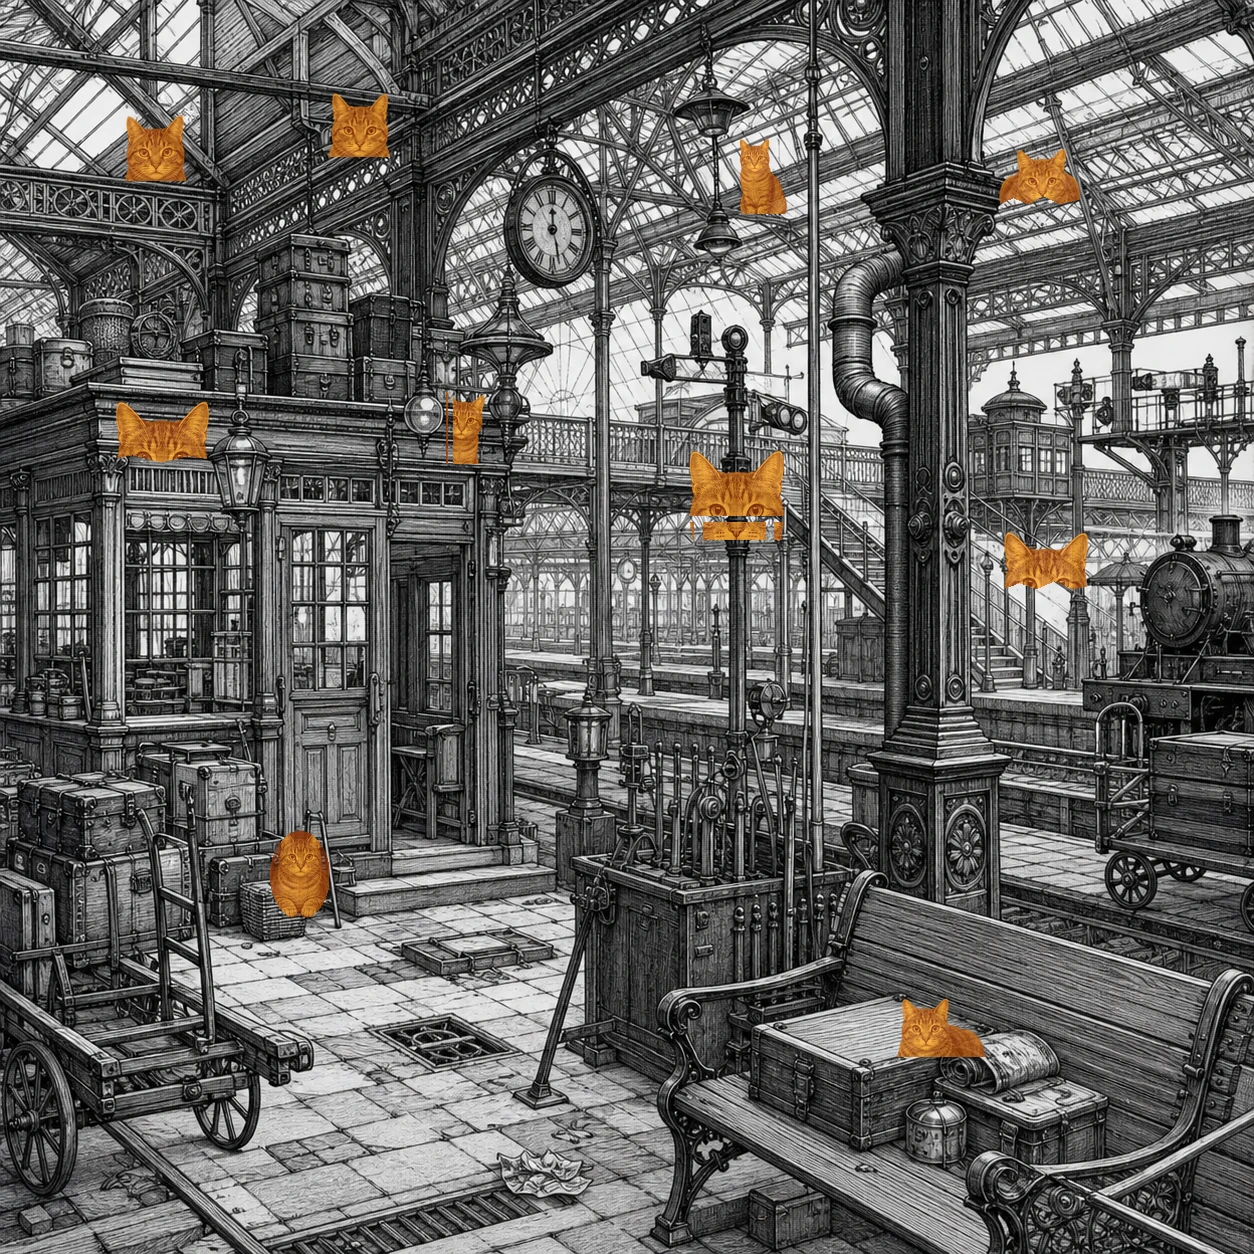
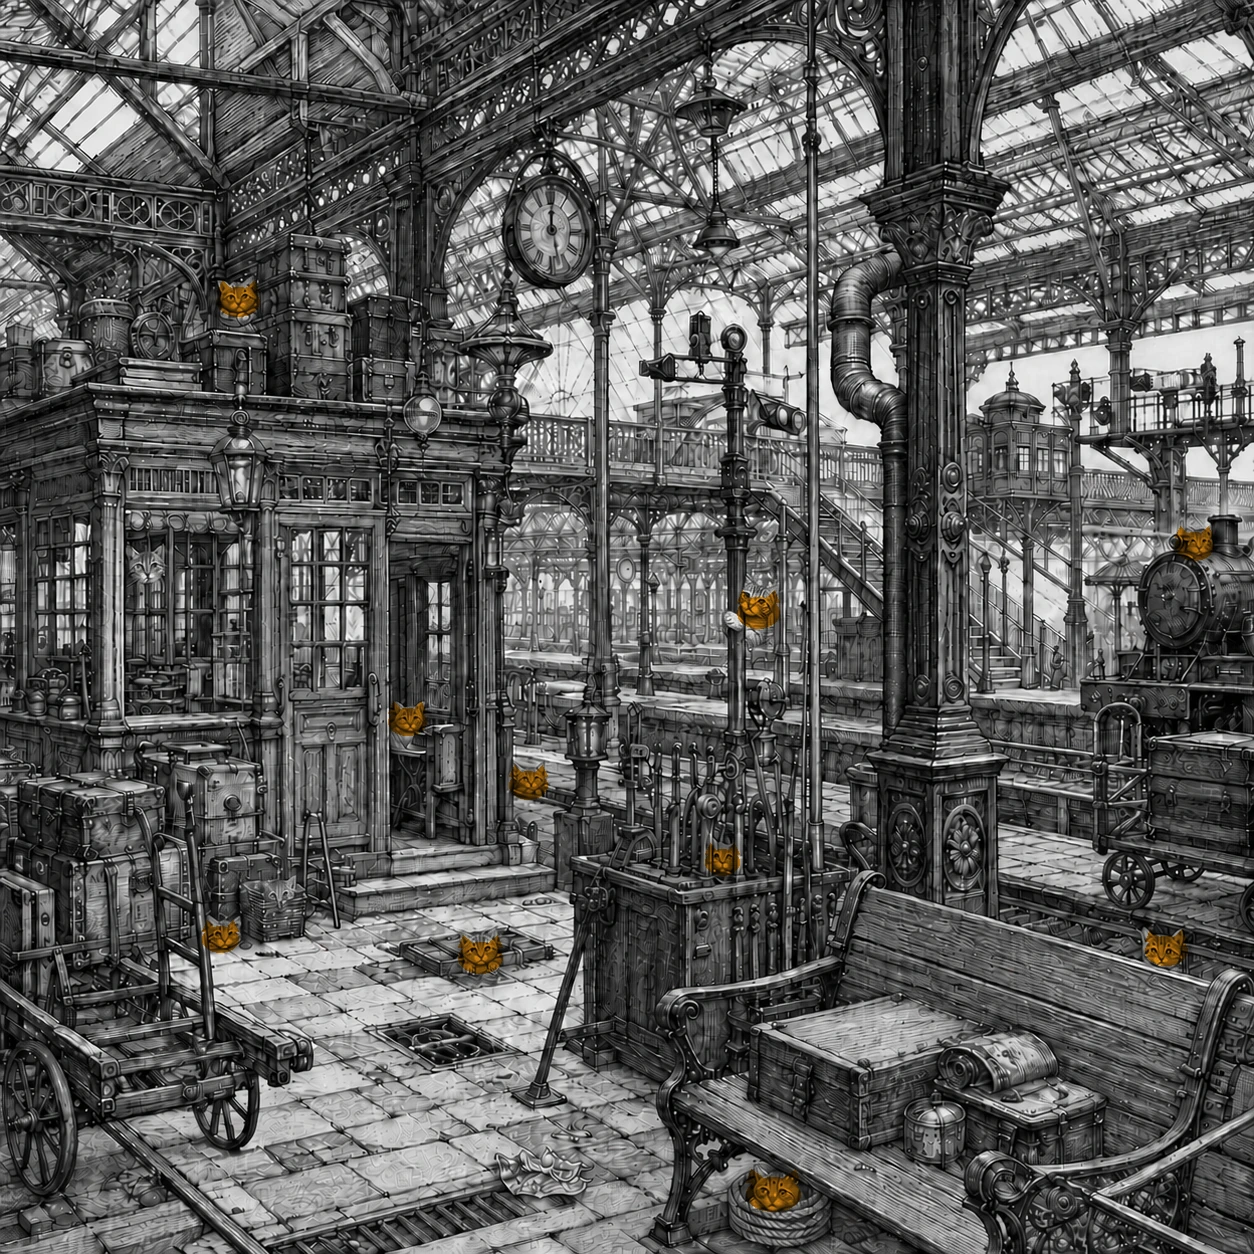
Rebuild review levels 56 to 58

diff --git a/app.js b/app.js
@@ -109,9 +109,9 @@ const levelCatalog = [
     {x:.393,y:.055,hitX:.025,hitY:.028,clipX:.020,clipY:.025},{x:.117,y:.106,hitX:.025,hitY:.025,clipX:.022,clipY:.020},{x:.672,y:.142,hitX:.025,hitY:.025,clipX:.020,clipY:.018},{x:.915,y:.281,hitX:.025,hitY:.025,clipX:.022,clipY:.018},{x:.189,y:.348,hitX:.025,hitY:.028,clipX:.018,clipY:.025},{x:.500,y:.483,hitX:.025,hitY:.025,clipX:.020,clipY:.018},{x:.879,y:.540,hitX:.025,hitY:.025,clipX:.022,clipY:.018},{x:.132,y:.589,hitX:.025,hitY:.025,clipX:.022,clipY:.018},{x:.508,y:.723,hitX:.025,hitY:.025,clipX:.022,clipY:.020},{x:.895,y:.882,hitX:.028,hitY:.030,clipX:.025,clipY:.028}] }
   ,{ file: "ink-10", name: "Mountain Weather Station", cats: [
     {x:.313,y:.101,hitX:.030,hitY:.025,clipX:.028,clipY:.018},{x:.111,y:.114,hitX:.025,hitY:.025,clipX:.020,clipY:.022},{x:.597,y:.215,hitX:.025,hitY:.025,clipX:.018,clipY:.018},{x:.873,y:.276,hitX:.025,hitY:.025,clipX:.020,clipY:.018},{x:.133,y:.449,hitX:.028,hitY:.025,clipX:.025,clipY:.018},{x:.901,y:.488,hitX:.025,hitY:.025,clipX:.022,clipY:.018},{x:.435,y:.532,hitX:.025,hitY:.025,clipX:.018,clipY:.018},{x:.087,y:.728,hitX:.025,hitY:.028,clipX:.022,clipY:.025},{x:.496,y:.759,hitX:.025,hitY:.025,clipX:.020,clipY:.018},{x:.854,y:.903,hitX:.025,hitY:.028,clipX:.022,clipY:.025}] }
-,{ file: "next-01", name: "Grand Railway Terminal", cats: [{"x":0.124,"y":0.118,"hitX":0.0387,"hitY":0.0383,"clipX":0.0337,"clipY":0.0333},{"x":0.2855,"y":0.0997,"hitX":0.0399,"hitY":0.0375,"clipX":0.0349,"clipY":0.0325},{"x":0.6077,"y":0.1407,"hitX":0.035,"hitY":0.0419,"clipX":0.03,"clipY":0.0369},{"x":0.8293,"y":0.1407,"hitX":0.0447,"hitY":0.035,"clipX":0.0397,"clipY":0.03},{"x":0.1296,"y":0.3441,"hitX":0.0515,"hitY":0.0363,"clipX":0.0465,"clipY":0.0313},{"x":0.3712,"y":0.3385,"hitX":0.035,"hitY":0.0435,"clipX":0.03,"clipY":0.0385},{"x":0.5877,"y":0.3947,"hitX":0.0519,"hitY":0.0479,"clipX":0.0469,"clipY":0.0429},{"x":0.8349,"y":0.4466,"hitX":0.0471,"hitY":0.0351,"clipX":0.0421,"clipY":0.0301},{"x":0.2388,"y":0.6978,"hitX":0.0355,"hitY":0.0471,"clipX":0.0305,"clipY":0.0421},{"x":0.75,"y":0.8194,"hitX":0.0483,"hitY":0.0355,"clipX":0.0433,"clipY":0.0305}] }
-  ,{ file: "next-02", name: "Rooftop Market Maze", cats: [{"x":0.1272,"y":0.114,"hitX":0.0387,"hitY":0.0383,"clipX":0.0337,"clipY":0.0333},{"x":0.3971,"y":0.0797,"hitX":0.0399,"hitY":0.0375,"clipX":0.0349,"clipY":0.0325},{"x":0.6635,"y":0.1248,"hitX":0.035,"hitY":0.0419,"clipX":0.03,"clipY":0.0369},{"x":0.8772,"y":0.1089,"hitX":0.0447,"hitY":0.035,"clipX":0.0397,"clipY":0.03},{"x":0.1415,"y":0.3242,"hitX":0.0515,"hitY":0.0363,"clipX":0.0465,"clipY":0.0313},{"x":0.4063,"y":0.3106,"hitX":0.035,"hitY":0.0435,"clipX":0.03,"clipY":0.0385},{"x":0.7193,"y":0.3469,"hitX":0.0519,"hitY":0.0479,"clipX":0.0469,"clipY":0.0429},{"x":0.8668,"y":0.4785,"hitX":0.0471,"hitY":0.0351,"clipX":0.0421,"clipY":0.0301},{"x":0.2628,"y":0.6978,"hitX":0.0355,"hitY":0.0471,"clipX":0.0305,"clipY":0.0421},{"x":0.7181,"y":0.7755,"hitX":0.0483,"hitY":0.0355,"clipX":0.0433,"clipY":0.0305}] }
-  ,{ file: "next-03", name: "Clockwork Foundry", cats: [{"x":0.116,"y":0.11,"hitX":0.0387,"hitY":0.0383,"clipX":0.0337,"clipY":0.0333},{"x":0.3732,"y":0.1196,"hitX":0.0399,"hitY":0.0375,"clipX":0.0349,"clipY":0.0325},{"x":0.6316,"y":0.1288,"hitX":0.035,"hitY":0.0419,"clipX":0.03,"clipY":0.0369},{"x":0.8612,"y":0.1687,"hitX":0.0447,"hitY":0.035,"clipX":0.0397,"clipY":0.03},{"x":0.1495,"y":0.3321,"hitX":0.0515,"hitY":0.0363,"clipX":0.0465,"clipY":0.0313},{"x":0.3824,"y":0.3465,"hitX":0.035,"hitY":0.0435,"clipX":0.03,"clipY":0.0385},{"x":0.6316,"y":0.3549,"hitX":0.0519,"hitY":0.0479,"clipX":0.0469,"clipY":0.0429},{"x":0.8349,"y":0.4745,"hitX":0.0471,"hitY":0.0351,"clipX":0.0421,"clipY":0.0301},{"x":0.2388,"y":0.6898,"hitX":0.0355,"hitY":0.0471,"clipX":0.0305,"clipY":0.0421},{"x":0.6782,"y":0.7795,"hitX":0.0483,"hitY":0.0355,"clipX":0.0433,"clipY":0.0305}] }
+,{ file: "next-01", name: "Grand Railway Terminal", cats: [{"x":0.1898,"y":0.2376,"hitX":0.04,"hitY":0.04,"clipX":0.034,"clipY":0.031},{"x":0.3246,"y":0.5726,"hitX":0.04,"hitY":0.04,"clipX":0.031,"clipY":0.029},{"x":0.4211,"y":0.6236,"hitX":0.04,"hitY":0.04,"clipX":0.031,"clipY":0.029},{"x":0.5758,"y":0.685,"hitX":0.04,"hitY":0.04,"clipX":0.03,"clipY":0.028},{"x":0.1754,"y":0.7464,"hitX":0.04,"hitY":0.04,"clipX":0.03,"clipY":0.028},{"x":0.3828,"y":0.7608,"hitX":0.04,"hitY":0.04,"clipX":0.035,"clipY":0.031},{"x":0.9522,"y":0.433,"hitX":0.04,"hitY":0.04,"clipX":0.031,"clipY":0.028},{"x":0.9298,"y":0.7552,"hitX":0.04,"hitY":0.04,"clipX":0.034,"clipY":0.03},{"x":0.6164,"y":0.949,"hitX":0.045,"hitY":0.04,"clipX":0.043,"clipY":0.034},{"x":0.6045,"y":0.4856,"hitX":0.04,"hitY":0.04,"clipX":0.034,"clipY":0.031}] }
+  ,{ file: "next-02", name: "Rooftop Market Maze", cats: [{"x":0.1802,"y":0.1053,"hitX":0.04,"hitY":0.04,"clipX":0.034,"clipY":0.03},{"x":0.7727,"y":0.1563,"hitX":0.04,"hitY":0.04,"clipX":0.031,"clipY":0.028},{"x":0.189,"y":0.3182,"hitX":0.04,"hitY":0.04,"clipX":0.031,"clipY":0.028},{"x":0.945,"y":0.3134,"hitX":0.04,"hitY":0.04,"clipX":0.032,"clipY":0.028},{"x":0.7488,"y":0.453,"hitX":0.04,"hitY":0.04,"clipX":0.031,"clipY":0.028},{"x":0.4976,"y":0.5191,"hitX":0.04,"hitY":0.04,"clipX":0.03,"clipY":0.028},{"x":0.5486,"y":0.5941,"hitX":0.04,"hitY":0.04,"clipX":0.029,"clipY":0.027},{"x":0.2911,"y":0.6443,"hitX":0.04,"hitY":0.04,"clipX":0.035,"clipY":0.031},{"x":0.1794,"y":0.8652,"hitX":0.04,"hitY":0.04,"clipX":0.034,"clipY":0.03},{"x":0.8923,"y":0.7568,"hitX":0.04,"hitY":0.04,"clipX":0.028,"clipY":0.027}] }
+  ,{ file: "next-03", name: "Clockwork Foundry", cats: [{"x":0.1906,"y":0.1978,"hitX":0.04,"hitY":0.04,"clipX":0.035,"clipY":0.031},{"x":0.7329,"y":0.0431,"hitX":0.04,"hitY":0.04,"clipX":0.037,"clipY":0.032},{"x":0.8676,"y":0.2424,"hitX":0.04,"hitY":0.04,"clipX":0.031,"clipY":0.028},{"x":0.5463,"y":0.3349,"hitX":0.04,"hitY":0.04,"clipX":0.031,"clipY":0.028},{"x":0.2289,"y":0.6547,"hitX":0.04,"hitY":0.04,"clipX":0.037,"clipY":0.032},{"x":0.5167,"y":0.7009,"hitX":0.04,"hitY":0.04,"clipX":0.032,"clipY":0.029},{"x":0.8509,"y":0.6571,"hitX":0.04,"hitY":0.04,"clipX":0.038,"clipY":0.034},{"x":0.2329,"y":0.8732,"hitX":0.04,"hitY":0.04,"clipX":0.038,"clipY":0.034},{"x":0.8565,"y":0.8812,"hitX":0.04,"hitY":0.04,"clipX":0.031,"clipY":0.028},{"x":0.4912,"y":0.9203,"hitX":0.04,"hitY":0.04,"clipX":0.037,"clipY":0.032}] }
   ,{ file: "next-04", name: "Orbital Assembly Hangar", cats: [{"x":0.0873,"y":0.11,"hitX":0.0387,"hitY":0.0383,"clipX":0.0337,"clipY":0.0333},{"x":0.3094,"y":0.0957,"hitX":0.0399,"hitY":0.0375,"clipX":0.0349,"clipY":0.0325},{"x":0.6077,"y":0.1128,"hitX":0.035,"hitY":0.0419,"clipX":0.03,"clipY":0.0369},{"x":0.8692,"y":0.1328,"hitX":0.0447,"hitY":0.035,"clipX":0.0397,"clipY":0.03},{"x":0.1176,"y":0.3122,"hitX":0.0515,"hitY":0.0363,"clipX":0.0465,"clipY":0.0313},{"x":0.3585,"y":0.3226,"hitX":0.035,"hitY":0.0435,"clipX":0.03,"clipY":0.0385},{"x":0.6515,"y":0.3509,"hitX":0.0519,"hitY":0.0479,"clipX":0.0469,"clipY":0.0429},{"x":0.8589,"y":0.4426,"hitX":0.0471,"hitY":0.0351,"clipX":0.0421,"clipY":0.0301},{"x":0.2436,"y":0.6938,"hitX":0.0355,"hitY":0.0471,"clipX":0.0305,"clipY":0.0421},{"x":0.7101,"y":0.7675,"hitX":0.0483,"hitY":0.0355,"clipX":0.0433,"clipY":0.0305}] }
   ,{ file: "next-05", name: "Toy Conveyor Factory", cats: [{"x":0.0542,"y":0.0407,"hitX":0.045,"hitY":0.045,"clipX":0.04,"clipY":0.04},{"x":0.2831,"y":0.1794,"hitX":0.045,"hitY":0.045,"clipX":0.04,"clipY":0.04},{"x":0.3254,"y":0.3301,"hitX":0.045,"hitY":0.045,"clipX":0.04,"clipY":0.04},{"x":0.925,"y":0.323,"hitX":0.045,"hitY":0.045,"clipX":0.04,"clipY":0.04},{"x":0.0678,"y":0.8509,"hitX":0.045,"hitY":0.045,"clipX":0.04,"clipY":0.04},{"x":0.4625,"y":0.4226,"hitX":0.045,"hitY":0.045,"clipX":0.04,"clipY":0.04},{"x":0.6707,"y":0.4386,"hitX":0.045,"hitY":0.045,"clipX":0.04,"clipY":0.04},{"x":0.614,"y":0.5183,"hitX":0.045,"hitY":0.045,"clipX":0.04,"clipY":0.04},{"x":0.618,"y":0.9067,"hitX":0.045,"hitY":0.045,"clipX":0.04,"clipY":0.04},{"x":0.5024,"y":0.8772,"hitX":0.045,"hitY":0.045,"clipX":0.04,"clipY":0.04}] }
   ,{ file: "next-06", name: "Grand Pumping Station", cats: [{"x":0.116,"y":0.1021,"hitX":0.0387,"hitY":0.0383,"clipX":0.0337,"clipY":0.0333},{"x":0.3493,"y":0.1156,"hitX":0.0399,"hitY":0.0375,"clipX":0.0349,"clipY":0.0325},{"x":0.6156,"y":0.1089,"hitX":0.035,"hitY":0.0419,"clipX":0.03,"clipY":0.0369},{"x":0.8293,"y":0.1208,"hitX":0.0447,"hitY":0.035,"clipX":0.0397,"clipY":0.03},{"x":0.1336,"y":0.3042,"hitX":0.0515,"hitY":0.0363,"clipX":0.0465,"clipY":0.0313},{"x":0.3983,"y":0.3226,"hitX":0.035,"hitY":0.0435,"clipX":0.03,"clipY":0.0385},{"x":0.6635,"y":0.3349,"hitX":0.0519,"hitY":0.0479,"clipX":0.0469,"clipY":0.0429},{"x":0.862,"y":0.4466,"hitX":0.0471,"hitY":0.0351,"clipX":0.0421,"clipY":0.0301},{"x":0.2356,"y":0.6858,"hitX":0.0355,"hitY":0.0471,"clipX":0.0305,"clipY":0.0421},{"x":0.6942,"y":0.7636,"hitX":0.0483,"hitY":0.0355,"clipX":0.0433,"clipY":0.0305}] }
@@ -129,7 +129,10 @@ const levelCatalog = [
   ,{ file: "next-18", name: "Tropical Greenhouse", isColor: true, cats: [{"x":0.116,"y":0.11,"hitX":0.0387,"hitY":0.0383,"clipX":0.0337,"clipY":0.0333},{"x":0.3413,"y":0.0957,"hitX":0.0399,"hitY":0.0375,"clipX":0.0349,"clipY":0.0325},{"x":0.6077,"y":0.1128,"hitX":0.035,"hitY":0.0419,"clipX":0.03,"clipY":0.0369},{"x":0.8612,"y":0.1248,"hitX":0.0447,"hitY":0.035,"clipX":0.0397,"clipY":0.03},{"x":0.1176,"y":0.3122,"hitX":0.0515,"hitY":0.0363,"clipX":0.0465,"clipY":0.0313},{"x":0.3904,"y":0.3305,"hitX":0.035,"hitY":0.0435,"clipX":0.03,"clipY":0.0385},{"x":0.6595,"y":0.3469,"hitX":0.0519,"hitY":0.0479,"clipX":0.0469,"clipY":0.0429},{"x":0.8589,"y":0.4745,"hitX":0.0471,"hitY":0.0351,"clipX":0.0421,"clipY":0.0301},{"x":0.2388,"y":0.6938,"hitX":0.0355,"hitY":0.0471,"clipX":0.0305,"clipY":0.0421},{"x":0.6862,"y":0.7755,"hitX":0.0483,"hitY":0.0355,"clipX":0.0433,"clipY":0.0305}] }
   ,{ file: "next-19", name: "Lunar Control Laboratory", isColor: true, cats: [{"x":0.116,"y":0.11,"hitX":0.0387,"hitY":0.0383,"clipX":0.0337,"clipY":0.0333},{"x":0.3413,"y":0.0957,"hitX":0.0399,"hitY":0.0375,"clipX":0.0349,"clipY":0.0325},{"x":0.6077,"y":0.1128,"hitX":0.035,"hitY":0.0419,"clipX":0.03,"clipY":0.0369},{"x":0.8612,"y":0.1248,"hitX":0.0447,"hitY":0.035,"clipX":0.0397,"clipY":0.03},{"x":0.1176,"y":0.3122,"hitX":0.0515,"hitY":0.0363,"clipX":0.0465,"clipY":0.0313},{"x":0.3904,"y":0.3305,"hitX":0.035,"hitY":0.0435,"clipX":0.03,"clipY":0.0385},{"x":0.6595,"y":0.3469,"hitX":0.0519,"hitY":0.0479,"clipX":0.0469,"clipY":0.0429},{"x":0.8589,"y":0.4745,"hitX":0.0471,"hitY":0.0351,"clipX":0.0421,"clipY":0.0301},{"x":0.2388,"y":0.6938,"hitX":0.0355,"hitY":0.0471,"clipX":0.0305,"clipY":0.0421},{"x":0.6862,"y":0.7755,"hitX":0.0483,"hitY":0.0355,"clipX":0.0433,"clipY":0.0305}] }
   ,{ file: "next-20", name: "Lantern Bazaar", isColor: true, cats: [{"x":0.116,"y":0.11,"hitX":0.0387,"hitY":0.0383,"clipX":0.0337,"clipY":0.0333},{"x":0.3413,"y":0.0957,"hitX":0.0399,"hitY":0.0375,"clipX":0.0349,"clipY":0.0325},{"x":0.6077,"y":0.1128,"hitX":0.035,"hitY":0.0419,"clipX":0.03,"clipY":0.0369},{"x":0.8612,"y":0.1248,"hitX":0.0447,"hitY":0.035,"clipX":0.0397,"clipY":0.03},{"x":0.1176,"y":0.3122,"hitX":0.0515,"hitY":0.0363,"clipX":0.0465,"clipY":0.0313},{"x":0.3904,"y":0.3305,"hitX":0.035,"hitY":0.0435,"clipX":0.03,"clipY":0.0385},{"x":0.6595,"y":0.3469,"hitX":0.0519,"hitY":0.0479,"clipX":0.0469,"clipY":0.0429},{"x":0.8589,"y":0.4745,"hitX":0.0471,"hitY":0.0351,"clipX":0.0421,"clipY":0.0301},{"x":0.2388,"y":0.6938,"hitX":0.0355,"hitY":0.0471,"clipX":0.0305,"clipY":0.0421},{"x":0.6862,"y":0.7755,"hitX":0.0483,"hitY":0.0355,"clipX":0.0433,"clipY":0.0305}] }
-].map(level => ({ ...level, image: `assets/levels/${level.file}.webp`, answer: `assets/levels/${level.file}-answer.webp` }));
+].map(level => {
+  const assetVersion = ["next-01", "next-02", "next-03"].includes(level.file) ? "?v=reviewed-56-58-v1" : "";
+  return { ...level, image: `assets/levels/${level.file}.webp${assetVersion}`, answer: `assets/levels/${level.file}-answer.webp${assetVersion}` };
+});
 
 // Fixed shuffle: varied on first load, stable across refreshes so saved progress stays meaningful.
 const V9_LEVEL_ORDER = [

diff --git a/index.html b/index.html
@@ -100,6 +100,6 @@
       </section>
     </div>
 
-    <script src="app.js?v=75-levels-v15-review"></script>
+    <script src="app.js?v=reviewed-56-58-v16"></script>
   </body>
 </html>

diff --git a/PROJECT_STATUS.md b/PROJECT_STATUS.md
@@ -141,6 +141,19 @@ review the 75-level catalog before doing more expansion.
   hearts, or hints.
 - Leaving through Home restores normal player mode.
 
+## Artwork repair batch: levels 56-58
+
+- Status: implemented and mobile-verified; included in the current release.
+- `next-01` through `next-03` were rebuilt from their clean scene backgrounds
+  with ten small, distinct cats naturally concealed by scene objects.
+- Rejected pasted-on cat layers are no longer used by these three levels.
+- Player and orange-answer assets share the same ten coordinates; the catalog
+  tap targets were updated to those positions.
+- At 375x812, all thirty targets across levels 56-58 were tapped successfully;
+  each level reached 10/10 with five hearts remaining and no browser errors.
+- Acceptance reference: the friendly cat treatment in early levels, especially
+  levels 16, 20, and 26; normal faces with one black pupil per eye.
+
 ## Recovery roadmap
 
 1. Define the desired player experience and a small set of puzzle acceptance
